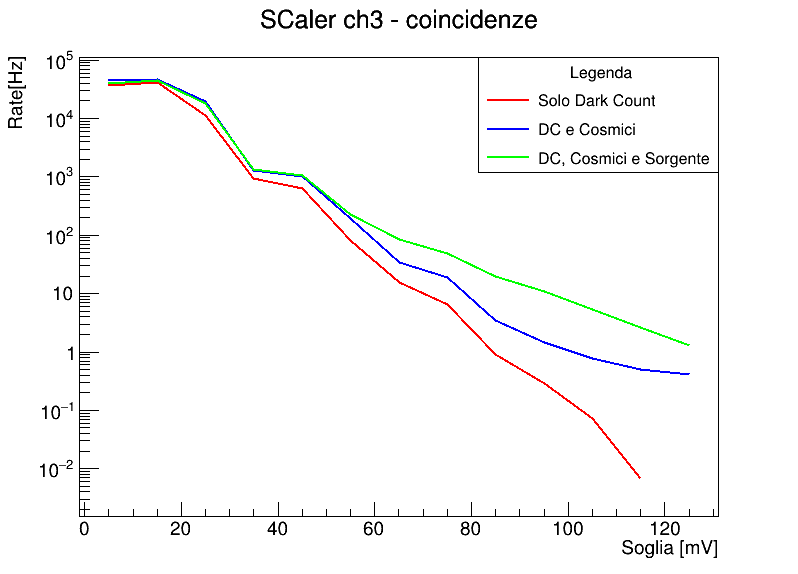
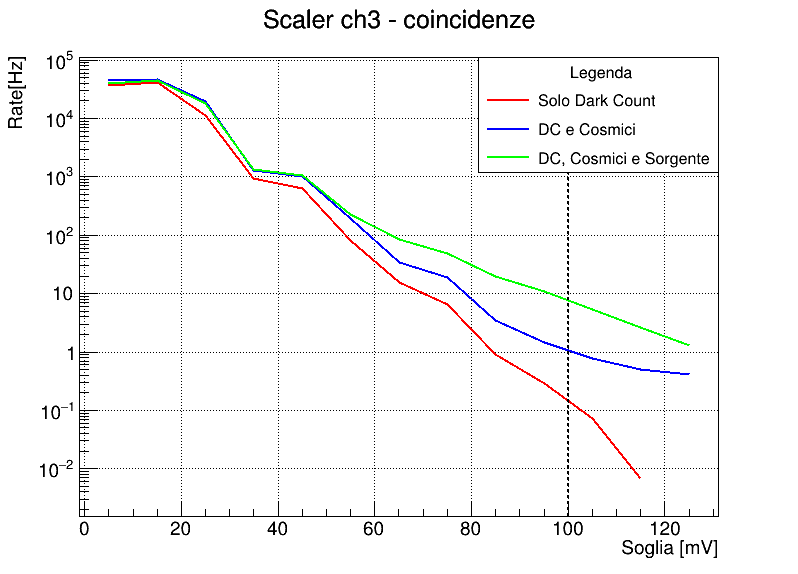
grafico coincidenze

Changed region(s): [[0.3308, 0.0, 0.6917, 0.0592]]

diff --git a/SiPM/macro/plot_coincidenze.C b/SiPM/macro/plot_coincidenze.C
@@ -56,7 +56,7 @@ void plot_coincidenze() {
 
     // Imposta il titolo globale del multigraph (TitoloGenerale;AsseX;AsseY)
     //mg->SetTitle("Scaler ch2; soglie [mV]; Rate[kHz]"); //singole
-    mg->SetTitle("SCaler ch3 - coincidenze; Soglia [mV]; Rate[Hz]"); //coincidenze
+    mg->SetTitle("Scaler ch3 - coincidenze; Soglia [mV]; Rate[Hz]"); //coincidenze
 
     TLegend *leg = new TLegend(0.6, 0.7, 0.9, 0.9);
     leg->SetTextSize(0.03);
@@ -72,6 +72,21 @@ void plot_coincidenze() {
     // Disegni il TMultiGraph con l'opzione "A" per fargli generare gli assi automatici
     // che contengano TUTTI i punti di ENTRAMBI i grafici.
     mg->Draw("A");
+
+    // 2. ABILITA LA GRIGLIA (chiamata su gPad dopo il Draw)
+    gPad->SetGrid(); // Attiva sia griglia X che Y (oppure usa SetGridx() solo per le X)
+
+    // 3. AGGIUNGI LA LINEA VERTICALE
+    // Sostituisci '32.0' con il valore di soglia in mV che ti interessa
+    double x_valore = 100.0; 
+    TLine *line = new TLine(x_valore, 0, x_valore, 100000);
+    
+    // Personalizzazione estetica della linea
+    line->SetLineColor(kBlack);      // Colore rosso
+    line->SetLineStyle(2);         // Tratteggiata
+    line->SetLineWidth(2);         // Spessore maggiorato
+    line->Draw();
+
     leg->Draw();
     c1->SaveAs("../plots/scalerch3.png");
 
